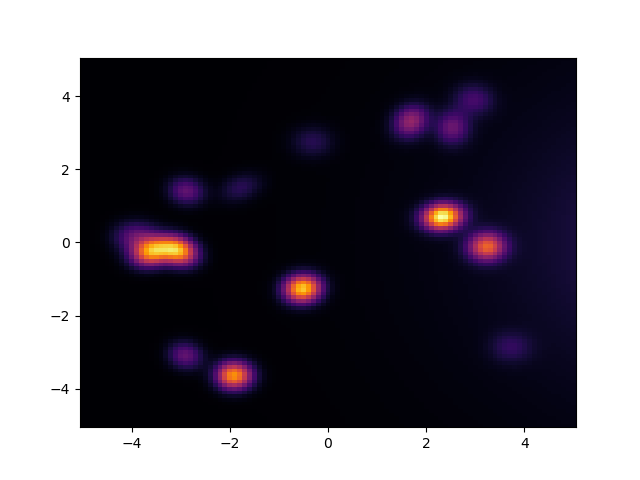
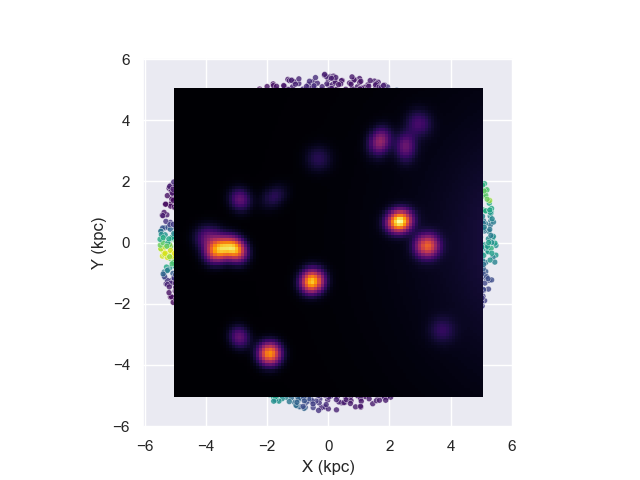
Ajout plot comparaison true-network + titre et unités

diff --git a/NewPrograms/Visualizer.py b/NewPrograms/Visualizer.py
@@ -46,6 +46,9 @@ class Visualizer:
         - `extinction_vs_distance()`: Plot true and network extinction along lines of sight.
         - `density_vs_distance()`: Plot true and network density along lines of sight.	
         - `plot_model()`: Plot the model and save the plot.
+        - `star_map()`: Plot the star map.
+        - `density_true_vs_network()`: Plot true density vs network density.
+        - `density_difference_vs_network()`: Plot the difference between the true and network density.
         
     # Example:
         The following example demonstrates how to use the `Visualizer` class to compare true and network extinction.
@@ -107,6 +110,9 @@ class Visualizer:
             for j in range(len(x[1, :])):
                 dens[i, j] = ModelHelper.compute_extinction_model_density(model, x[i, j], y[i, j], 0.)
                 
+        plt.gca().set_aspect('equal', adjustable='box')
+        plt.xlabel('X (kpc)')
+        plt.ylabel('Y (kpc)')
         plt.pcolormesh(x, y, dens, shading='auto', cmap="inferno")
         plt.savefig(file_model_plot)
        
@@ -160,9 +166,12 @@ class Visualizer:
         ax2.set_ylabel('Y (kpc)')
         ax3.set_xlabel('X (kpc)')
         ax3.set_ylabel('Y (kpc)')
-        fig.colorbar(cs1, ax=ax1)
-        fig.colorbar(cs2, ax=ax2)
-        fig.colorbar(cs3, ax=ax3)
+        cbar1 = fig.colorbar(cs1, ax=ax1)
+        cbar2 = fig.colorbar(cs2, ax=ax2)
+        cbar3 = fig.colorbar(cs3, ax=ax3)
+        cbar1.ax.set_ylabel('Density (kpc$^{-2}$)', rotation=270)
+        cbar2.ax.set_ylabel('Density (kpc$^{-2}$)', rotation=270)
+        cbar3.ax.set_ylabel('Density (kpc$^{-2}$)', rotation=270)
         
         # Ajouter un cercle de rayon 5.5 centré en (0, 0)
         circle = plt.Circle((0, 0), 5.5, color='white', fill=False)
@@ -207,6 +216,11 @@ class Visualizer:
         g.ax_marg_y.tick_params(axis='y', left=False, labelleft=False)
         g.ax_marg_x.tick_params(axis='y', left=False, labelleft=False)
         g.ax_marg_y.tick_params(axis='x', bottom=False, labelbottom=False)
+        
+        g.ax_joint.set_xlabel('X (kpc)')
+        g.ax_joint.set_ylabel('Y (kpc)')
+        g.ax_marg_x.set_ylabel('Density (kpc$^{-2}$)')
+        g.ax_marg_y.set_xlabel('Density (kpc$^{-2}$)')
 
         plt.savefig(density_plot_path)
         
@@ -237,6 +251,11 @@ class Visualizer:
         g.ax_marg_y.tick_params(axis='y', left=False, labelleft=False)
         g.ax_marg_x.tick_params(axis='y', left=False, labelleft=False)
         g.ax_marg_y.tick_params(axis='x', bottom=False, labelbottom=False)
+        
+        g.ax_joint.set_xlabel('X (kpc)')
+        g.ax_joint.set_ylabel('Y (kpc)')
+        g.ax_marg_x.set_ylabel('Density (kpc$^{-2}$)')
+        g.ax_marg_y.set_xlabel('Density (kpc$^{-2}$)')
 
         plt.savefig(density_plot_path)
 
@@ -369,6 +388,9 @@ class Visualizer:
         square = patches.Rectangle((-5, -5), 10, 10, linewidth=1, edgecolor='r', facecolor='none')
         ax.add_patch(square)
         ax.set_aspect('equal', adjustable='box')
+
+        plt.xlabel('X (kpc)')
+        plt.ylabel('Y (kpc)')
         
         plt.savefig("star_map.png")
 
@@ -383,3 +405,59 @@ class Visualizer:
             'trunc({n},{a:.2f},{b:.2f})'.format(n=cmap.name, a=minval, b=maxval),
             cmap(np.linspace(minval, maxval, n)))
         return new_cmap
+        
+    def density_true_vs_network(self):
+        """
+        Plot true density vs network density.
+        """
+        dens_true = self.dens_grid_datas['density_model']
+        dens_network = self.dens_grid_datas['density_network']
+        density_plot_path = FileHelper.give_config_value(self.config_file_path, "density_true_vs_network_plot")
+        
+        X = self.dens_grid_datas['X']
+        Y = self.dens_grid_datas['Y']
+        distance = np.sqrt(X**2 + Y**2)
+        
+        mask = np.where(distance <= self.max_distance)
+        
+        dens_true = dens_true[mask]
+        dens_network = dens_network[mask]
+
+        line = np.linspace(0, max(dens_network.flatten()), 100)
+        sns.set_theme()
+        _, ax = plt.subplots(1, 1, figsize=(15, 10))
+        ax.set_title('True density vs Network density')
+        sns.scatterplot(x = dens_network.flatten(), y = dens_true.flatten(), ax=ax)
+        sns.lineplot(x=line, y=line, color='red', ax=ax)
+        ax.set_xlabel('Network density (kpc$^{-2}$)')
+        ax.set_ylabel('True density (kpc$^{-2}$)')
+        plt.savefig(density_plot_path)
+        
+    def density_difference_vs_network(self):
+        """
+        Plot the difference between the true and network density in function of the network density.
+        """
+        dens_true = self.dens_grid_datas['density_model']
+        dens_network = self.dens_grid_datas['density_network']
+        density_plot_path = FileHelper.give_config_value(self.config_file_path, "density_difference_vs_network_plot")
+        
+        X = self.dens_grid_datas['X']
+        Y = self.dens_grid_datas['Y']
+        distance = np.sqrt(X**2 + Y**2)
+        
+        mask = np.where(distance <= self.max_distance)
+        
+        dens_true = dens_true[mask]
+        dens_network = dens_network[mask]
+        
+        x_line = np.linspace(0, max(dens_true.flatten()), 100)
+        sns.set_theme()
+        _, ax = plt.subplots(1, 1, figsize=(15, 10))
+        ax.set_title('Difference between True and Network density vs Network density')
+        sns.scatterplot(x = dens_true.flatten(), y = dens_true.flatten() - dens_network.flatten(), ax = ax)
+        sns.lineplot(x = x_line, y = np.zeros(100), color = 'red', ax = ax)
+        ax.set_xlabel('True density (kpc$^{-2}$)')
+        ax.set_ylabel('True density - Network density (kpc$^{-2}$)')
+        plt.savefig(density_plot_path)
+        
+    # 

diff --git a/NewPrograms/MainProgram.py b/NewPrograms/MainProgram.py
@@ -282,6 +282,8 @@ class MainProgram:
         if self.is_new_datafile:
             visualizer.model_histogram()
         visualizer.network_density_histogram()
+        visualizer.density_true_vs_network()
+        visualizer.density_difference_vs_network()
         
 
     def execute(self):
